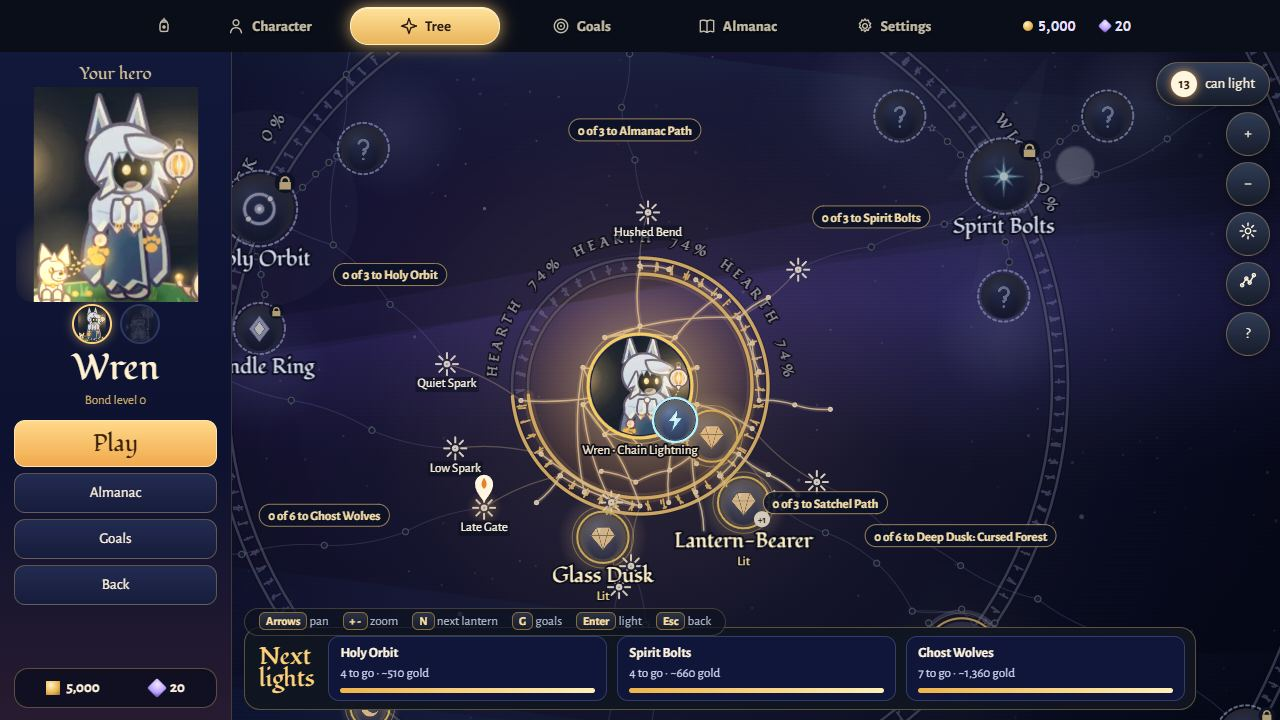
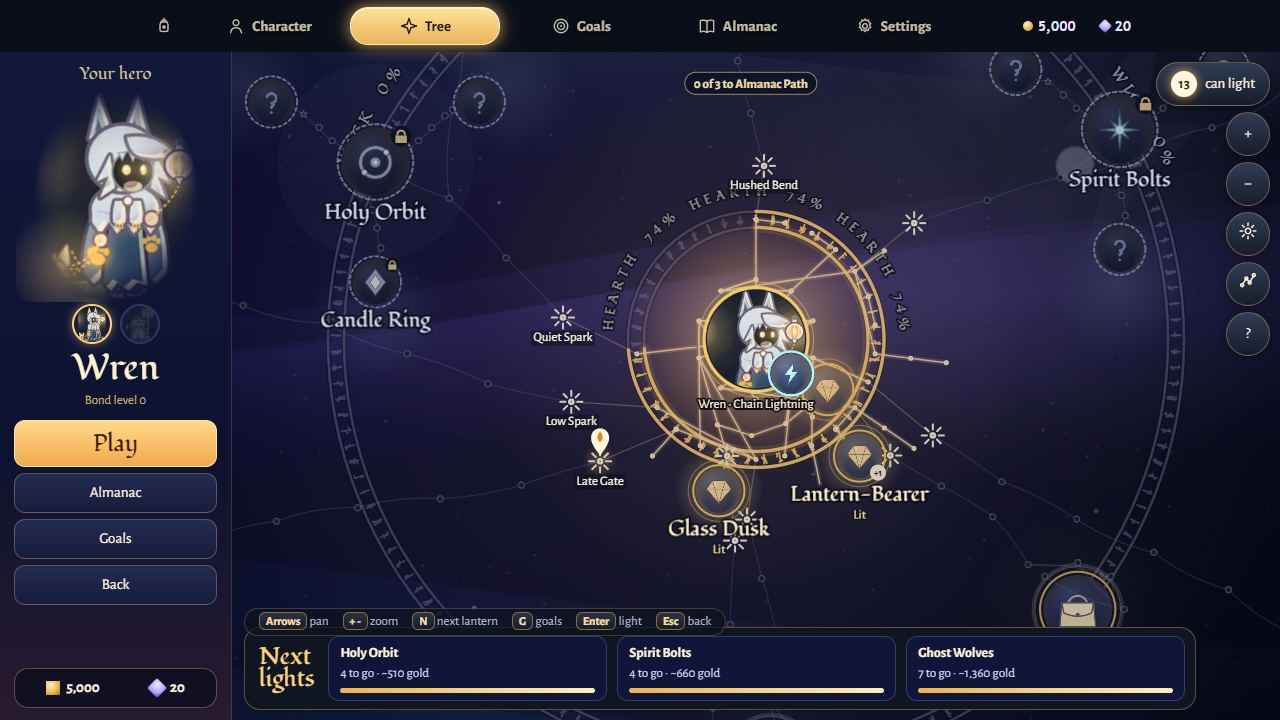
Tree look: chips on focus only, cleaner hub fan, portrait cut-out, labels clear of hero panel

diff --git a/src/ui/treescreen.js b/src/ui/treescreen.js
@@ -48,6 +48,7 @@ const ICON_MORE = [['path', { d: 'M6 15l6-6 6 6' }]];
 const hexA = (hex, a) => { const v = parseInt(String(hex).slice(1), 16) || 0; return `rgba(${(v >> 16) & 255},${(v >> 8) & 255},${v & 255},${a})`; };
 const clamp = (v, a, b) => Math.max(a, Math.min(b, v));
 const idHash = (id) => { let h = 2166136261; const t = String(id); for (let i = 0; i < t.length; i++) { h ^= t.charCodeAt(i); h = Math.imul(h, 16777619); } return (h >>> 0) / 4294967296; }; // stable 0..1 per lantern id
+const hubFade = (A, B) => { const d = Math.min(Math.hypot(A.x, A.y), Math.hypot(B.x, B.y)); return clamp((d - 350) / 600, 0.05, 1); }; // threads near the hub run almost straight (they fan out), bows grow with distance
 const lodFar = (z, L) => clamp(0.78 + (z - L.far) / 0.5, 0.78, 1); // label size factor: 0.78 at the FAR limit and below, 1 from about 0.31 up
 
 // DESKTOP D3: the tree's keys, shown as a quiet hint strip while the keyboard was the last input (these keys are fixed in onKey)
@@ -903,7 +904,9 @@ export class TreeScreen {
     const y0 = L.y + L.r + (L.s === 'ready' ? 13 : 6);
     const rows = [[fs + 2, nw + 8], [sf + 3, lw + 6], [pf + 12, pw]];
     const wAll = Math.max(rows[0][1], rows[1][1], rows[2][1]);
-    const cx = clamp(L.x, wAll / 2 + 6, Math.max(wAll / 2 + 6, this.W - wAll / 2 - 6)); // a name and its pill are never cut off by the screen edge
+    const fx0 = this.freeRect()[0]; // the left edge of the map that is really visible (the hero panel covers the rest)
+    if (L.x + wAll / 2 < fx0 + 4) return;
+    const cx = clamp(L.x, fx0 + wAll / 2 + 6, Math.max(fx0 + wAll / 2 + 6, this.W - wAll / 2 - 6)); // a name and its pill are never cut off by the screen edge or hidden under the panel
     const make = (k) => { let h = 0, w = 0; for (let i = 0; i < k; i++) { h += rows[i][0]; w = Math.max(w, rows[i][1]); } return { x0: cx - w / 2, x1: cx + w / 2, y0, y1: y0 + h, id: L.id }; };
     let k = pt ? 3 : line ? 2 : 1;
     for (; k > 1; k--) if (!hits(make(k), L.id)) break;
@@ -981,7 +984,7 @@ export class TreeScreen {
       if (!A || !B || (a !== 'hub' && A.teaser) || B.teaser) return; // teasers are fog, not threads
       if (!cross && Math.hypot(A.x - B.x, A.y - B.y) > V.linkFar) return; // a requirement longer than a thread can be is shown by the focus path, never across the web (cross links were already picked by distance by the atlas)
       seen.add(k);
-      const dx = B.x - A.x, dy = B.y - A.y, L = Math.hypot(dx, dy) || 1, off = (cross ? 0.18 : 0.1) * L * (idHash(k) < 0.5 ? 1 : -1); // a gentle bow, side picked per thread (like the sandbox)
+      const dx = B.x - A.x, dy = B.y - A.y, L = Math.hypot(dx, dy) || 1, off = (cross ? 0.18 : 0.1) * L * (idHash(k) < 0.5 ? 1 : -1) * hubFade(A, B); // a gentle bow, side picked per thread (like the sandbox)
       out.push({ a, b, ax: A.x, ay: A.y, bx: B.x, by: B.y, cx: (A.x + B.x) / 2 - (dy / L) * off, cy: (A.y + B.y) / 2 + (dx / L) * off, cross, col: this.colorOf(cross ? a : b) });
     };
     for (const e of def.edges) {
@@ -989,7 +992,7 @@ export class TreeScreen {
       if (from === 'hub') { const r = m.region(e.to); if (r && r.kind === 'cluster' && r.heart && r.heart !== e.to) from = r.heart; } // a far seal hangs from its spirit's heart, not from the hub
       add(from, e.to, false);
     }
-    for (const l of V.links) if (def.nodes[l[0]] && def.nodes[l[1]]) add(l[0], l[1], true);
+    for (const l of V.links) { const a = def.nodes[l[0]], b = def.nodes[l[1]]; if (a && b && Math.min(Math.hypot(a.x, a.y), Math.hypot(b.x, b.y)) > V.nearHub * 2) add(l[0], l[1], true); } // no cross links round the hub: the fan stays clean
     this.threads = out;
     this.forkSeal = new Map(); // fork lantern -> its seal (veil, petals, unfurl)
     for (const g of V.gardens || []) for (const f of g.forks) for (const id of f) if (def.nodes[id]) this.forkSeal.set(id, g.seal);
@@ -1039,7 +1042,7 @@ export class TreeScreen {
       c.globalAlpha = this.focus ? 0.4 : 1;
       this.rim(c, x, y, r, awake ? 'lit' : 'dim');
       if (!awake && !d.reserved) this.padlock(c, x + r * 0.72, y - r * 0.72, r);
-      if (lod !== 'far' && d.name) {
+      if (lod !== 'far' && d.name && x - 40 > this.freeRect()[0]) {
         const fs = Math.round((this.small ? 15 : 19) * uk); c.font = `${fs}px ${FONT_HEAD}`; c.textAlign = 'center'; c.textBaseline = 'top'; c.lineJoin = 'round';
         c.lineWidth = 4; c.strokeStyle = 'rgba(8,10,24,.92)'; c.strokeText(d.name, x, y + r + 6); c.fillStyle = awake ? '#fff0c8' : '#d4daf0'; c.fillText(d.name, x, y + r + 6);
       }
@@ -1104,34 +1107,47 @@ export class TreeScreen {
     }
     c.globalAlpha = 1;
   }
-  /** Route chips on roads that have been started: '5 of 12 to Spirit Bolts' (sandbox look). */
+  /** Route chips ('5 of 12 to Spirit Bolts'): only for roads on the hovered / selected path, or else the one started road nearest the middle of the map. At most 3, never on a label. */
   drawChips(c) {
-    const z = this.cam.z, m = this.model;
+    const z = this.cam.z, m = this.model, foc = this.focus;
     if (z <= 0.3 || !this.view.roads || !this.view.roads.length) return;
-    const boxes = (this.lblBoxes || []).slice();
-    c.textBaseline = 'middle'; c.textAlign = 'center';
-    const uk = this.uk || 1;
+    const [fx0, fy0, fx1, fy1] = this.freeRect(); const mx = (fx0 + fx1) / 2, my = (fy0 + fy1) / 2;
+    const cand = [];
     for (const r of this.view.roads) {
       const n = r.ids.length; if (!n) continue;
       let k = 0; for (const id of r.ids) if (m.lit(id)) k++;
       const to = this.def.nodes[r.to]; if (!to || k >= n || m.lit(r.to)) continue;
       if (!(k > 0 || r.from === 'hub' || m.lit(r.from))) continue;
-      const mid = this.def.nodes[r.ids[Math.min(n - 1, Math.floor((n - 1) / 2))]]; if (!mid) continue;
+      const midId = r.ids[Math.min(n - 1, Math.floor((n - 1) / 2))], mid = this.def.nodes[midId]; if (!mid) continue;
       const [x, y] = this.toS(mid.x, mid.y);
-      if (x < -60 || x > this.W + 60 || y < -30 || y > this.H + 30) continue;
-      const ce = m.cache[r.to]; const nm = ce && !ce.d.masked ? ce.d.name : 'a far lantern';
-      const txt = `${k} of ${n} to ${nm}`; c.font = `600 ${13 * uk}px ${FONT_UI}`;
-      const w = this.mw(c, c.font, txt) + 18 * uk, h = 22 * uk, bx = x - w / 2, by = y - 30 * uk - h / 2;
-      if (boxes.some((b) => b.x0 < bx + w && b.x1 > bx && b.y0 < by + h && b.y1 > by)) continue;
-      boxes.push({ x0: bx, x1: bx + w, y0: by, y1: by + h });
-      c.globalAlpha = (this.focus ? 0.55 : 0.95) * clamp((z - 0.3) / 0.1, 0, 1);
-      c.beginPath(); c.roundRect(bx, by, w, h, h / 2); c.fillStyle = 'rgba(12,17,38,.92)'; c.fill(); c.strokeStyle = 'rgba(255,210,122,.6)'; c.lineWidth = 1; c.stroke();
-      c.fillStyle = '#ffe6ae'; c.fillText(txt, x, by + h / 2 + 1);
+      if (x < fx0 + 30 || x > fx1 - 30 || y < fy0 + 20 || y > fy1 - 20) continue;
+      if (foc && !(r.ids.some((id) => foc.nodes.has(id)) || foc.nodes.has(r.to))) continue;
+      cand.push({ r, k, n, x, y, d: Math.hypot(x - mx, y - my) });
+    }
+    if (!cand.length) return;
+    cand.sort((p, q) => p.d - q.d);
+    const take = foc ? cand.slice(0, 3) : cand.slice(0, 1);
+    const boxes = (this.allBoxes || []).slice();
+    c.textBaseline = 'middle'; c.textAlign = 'center';
+    const uk = this.uk || 1;
+    for (const q of take) {
+      const ce = m.cache[q.r.to]; const nm = ce && !ce.d.masked ? ce.d.name : 'a far lantern';
+      const txt = `${q.k} of ${q.n} to ${nm}`; c.font = `600 ${13 * uk}px ${FONT_UI}`;
+      const w = this.mw(c, c.font, txt) + 18 * uk, h = 22 * uk, bx = q.x - w / 2;
+      let placed = false;
+      for (const dy of [-30, 30, -54, 54]) { // try above the road, then below
+        const by = q.y + dy * uk - h / 2;
+        if (bx < fx0 + 4 || bx + w > fx1 || by < fy0 || by + h > fy1 || boxes.some((b) => b.x0 < bx + w && b.x1 > bx && b.y0 < by + h && b.y1 > by)) continue;
+        boxes.push({ x0: bx, x1: bx + w, y0: by, y1: by + h });
+        c.globalAlpha = clamp((z - 0.3) / 0.1, 0, 1) * 0.95;
+        c.beginPath(); c.roundRect(bx, by, w, h, h / 2); c.fillStyle = 'rgba(12,17,38,.92)'; c.fill(); c.strokeStyle = 'rgba(255,210,122,.6)'; c.lineWidth = 1; c.stroke();
+        c.fillStyle = '#ffe6ae'; c.fillText(txt, q.x, by + h / 2 + 1); placed = true; break;
+      }
+      void placed;
     }
     c.globalAlpha = 1;
   }
 
-  // ------------------------------------------------------------------ HERO PANEL + NEXT LIGHTS (tree home, desktop; LOCKED 'TREE AS HOME SCREEN' / sandbox)
   /** Left panel: the last-played hero (portrait, a glow spot where the companion will stand), swap row, Play / Almanac / Goals / Back, purse. */
   buildHeroPanel() {
     const p = el('aside', 'ts-hero');
@@ -1155,11 +1171,13 @@ export class TreeScreen {
     return p;
   }
   /** Paint one portrait into a canvas (cover crop on the face) or a plain initial when there is no picture. */
-  paintPortrait(cv, hero, name, awake) {
+  paintPortrait(cv, hero, name, awake, soft = false) {
     const g = cv.getContext('2d'); if (!g) return;
     const w = cv.width, h = cv.height; g.clearRect(0, 0, w, h);
     const im = this.portraitImg(hero);
-    if (im) { const k = Math.min(w / im.naturalWidth, h / im.naturalHeight); g.globalAlpha = awake ? 1 : 0.45; if (!awake) g.filter = 'grayscale(1) brightness(.6)'; g.drawImage(im, (w - im.naturalWidth * k) / 2, h - im.naturalHeight * k, im.naturalWidth * k, im.naturalHeight * k); g.filter = 'none'; g.globalAlpha = 1; }
+    if (im) { const k = Math.min(w / im.naturalWidth, h / im.naturalHeight); g.globalAlpha = awake ? 1 : 0.45; if (!awake) g.filter = 'grayscale(1) brightness(.6)'; g.drawImage(im, (w - im.naturalWidth * k) / 2, h - im.naturalHeight * k, im.naturalWidth * k, im.naturalHeight * k); g.filter = 'none'; g.globalAlpha = 1; if (soft) { // cut-out look: the picture's own backdrop fades out softly into the panel (an oval feather inside the picture's rectangle)
+        const iw = im.naturalWidth * k, ih = im.naturalHeight * k;
+        g.save(); g.globalCompositeOperation = 'destination-in'; g.translate(w / 2, h - ih / 2); g.scale(1, ih / iw); const mk = g.createRadialGradient(0, 0, iw * 0.2, 0, 0, iw * 0.5); mk.addColorStop(0, 'rgba(0,0,0,1)'); mk.addColorStop(0.5, 'rgba(0,0,0,.85)'); mk.addColorStop(1, 'rgba(0,0,0,0)'); g.fillStyle = mk; g.fillRect(-w, -h * 2, 2 * w, 4 * h); g.restore(); } }
     else { g.fillStyle = awake ? '#fff1cf' : '#8e97b8'; g.font = `${Math.round(h * 0.5)}px ${FONT_HEAD}`; g.textAlign = 'center'; g.textBaseline = 'middle'; g.fillText(String(name || '?').slice(0, 1), w / 2, h / 2); }
   }
   renderHero() {
@@ -1171,7 +1189,7 @@ export class TreeScreen {
     this.heroSub.textContent = cur.awake ? `Bond level ${cur.bond}` : `Keepsakes ${cur.keep} of ${cur.need}`;
     const g = this.heroCv.getContext('2d');
     if (g) g.clearRect(0, 0, 400, 430);
-    this.paintPortrait(this.heroCv, cur.id, cur.name, cur.awake);
+    this.paintPortrait(this.heroCv, cur.id, cur.name, cur.awake, true);
     if (g) { // the glow spot: where the companion will stand beside the hero
       g.save(); g.globalCompositeOperation = 'lighter'; const gr = g.createRadialGradient(100, 360, 0, 100, 360, 120); gr.addColorStop(0, 'rgba(255,210,122,.4)'); gr.addColorStop(1, 'rgba(255,210,122,0)'); g.fillStyle = gr; g.fillRect(0, 0, 400, 430); g.restore();
     }
@@ -1385,7 +1403,8 @@ export class TreeScreen {
     pick.sort((a, b) => pri(a) - pri(b));
     const G = new Map();
     const cells = (b) => { const o = []; for (let i = Math.floor(b.x0 / 64); i <= Math.floor(b.x1 / 64); i++) for (let j = Math.floor(b.y0 / 64); j <= Math.floor(b.y1 / 64); j++) o.push(`${i},${j}`); return o; };
-    const addBox = (b) => { for (const k of cells(b)) { if (!G.has(k)) G.set(k, []); G.get(k).push(b); } };
+    this.allBoxes = [];
+    const addBox = (b) => { this.allBoxes.push(b); for (const k of cells(b)) { if (!G.has(k)) G.set(k, []); G.get(k).push(b); } };
     const hits = (bx, id) => cells(bx).some((k) => (G.get(k) || []).some((b) => b.id !== id && b.x0 < bx.x1 && b.x1 > bx.x0 && b.y0 < bx.y1 && b.y1 > bx.y0));
     for (const L of list) addBox({ x0: L.x - L.r - 3, x1: L.x + L.r + 3, y0: L.y - L.r - 3, y1: L.y + L.r + 3, id: L.id, lm: tr(L) === 'landmark' });
     for (const t of this.toolBoxes || []) addBox({ x0: t.x - t.r, x1: t.x + t.r, y0: t.y - t.r, y1: t.y + t.r, id: 'tool' }); // names keep off the tool coins
@@ -1402,7 +1421,7 @@ export class TreeScreen {
       const txt = m.cache[L.id].d.name; const w = this.mw(c, `${13 * uk}px ${FONT_UI}`, txt) + 8;
       const y0 = L.y + L.r + (L.s === 'ready' ? 10 : 5);
       const bx = { x0: L.x - w / 2, x1: L.x + w / 2, y0, y1: y0 + lh };
-      if (hits(bx, L.id)) continue;
+      if (hits(bx, L.id) || bx.x0 < this.freeRect()[0] + 2) continue;
       addBox(bx);
       c.globalAlpha = this.focus && !this.focus.nodes.has(L.id) ? 0.45 : 1;
       c.fillStyle = 'rgba(10,14,28,.55)'; c.fillRect(bx.x0 + 2, bx.y0 + 1, w - 4, lh - 2); // R2: a light plate (outlined text for every small name cost too much per frame)

diff --git a/docs/QUEUE.md b/docs/QUEUE.md
@@ -526,3 +526,4 @@ Tree rework state: look LOCKED from the sandbox (night sky, rune rings, Tune val
 - Next: Matt's look at the dev shots (docs/screenshots/tree-look/), then veiled forks / route chips if he wants them.
 - LOOK PORT 2 (2026-11-12, wip/tree-q1, not merged, not shown): the differences listed above are closed: curved threads, route chips on started roads, ring shimmer, fork petals + unfurl when a seal is lit, veiled forks (fog until the seal is lit), labels dim with the hover focus, hearth wash calmed to match the sandbox brightness (mean luminance 34 vs 22 on the same view, sky patches equal), and the desktop HERO PANEL + NEXT LIGHTS (last-played hero from notes.loadout, glow spot for the companion, swap row of every hero, Play / Almanac / Goals / Back, purse; Next lights = up to 3 goals, the starter spirit's own branch seals first). Tests 1401 green, build OK, audit 0.
 - Remaining differences (honest): phone / narrow windows have no hero panel (the tab row + purse + step bar stay, as locked in the phone layout); the hero portrait is the bundled picture with its own backdrop (sandbox art was transparent); the companion is in the Wren portrait itself, the glow spot is only a warm light; the real node art and label placer stay (sandbox glyph set and placer not copied); Tune / Legend / Debug panels are sandbox tools and are not in the game (the real tree has its own '?' legend). Veiled-fork fog is a soft blob, not a '?' per fork.
+- LOOK PORT 3 (2026-11-12, wip/tree-q1): route chips only for the hovered/selected path (max 3) or the one nearest started road, placed clear of every label; threads near the hub run almost straight and cross links near the hub are dropped; hero portrait is a soft oval cut-out; labels, chips and display names are kept clear of the hero panel (freeRect). Tests 1401 green, audit 0.
